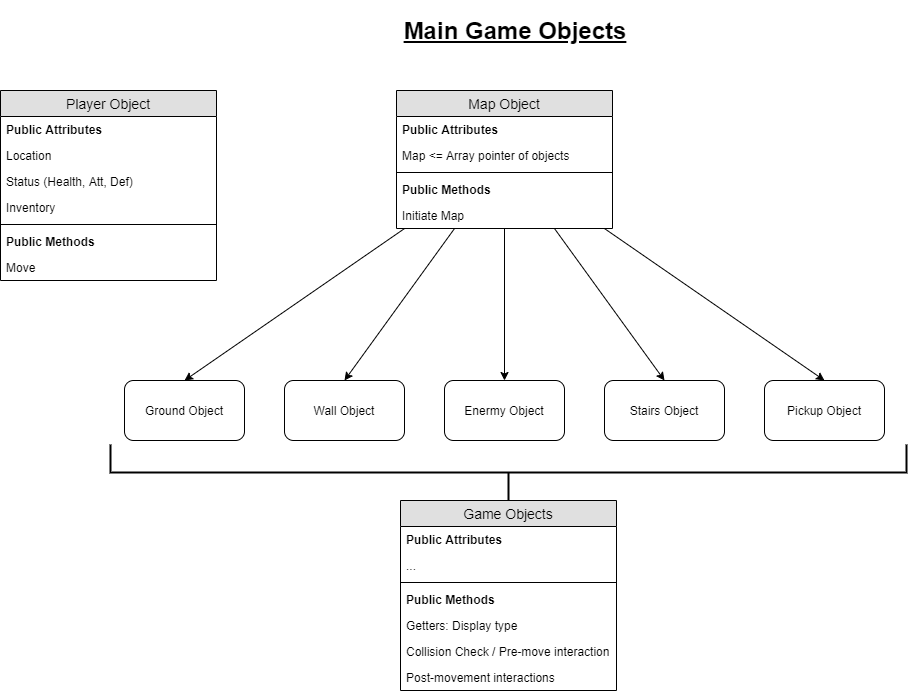
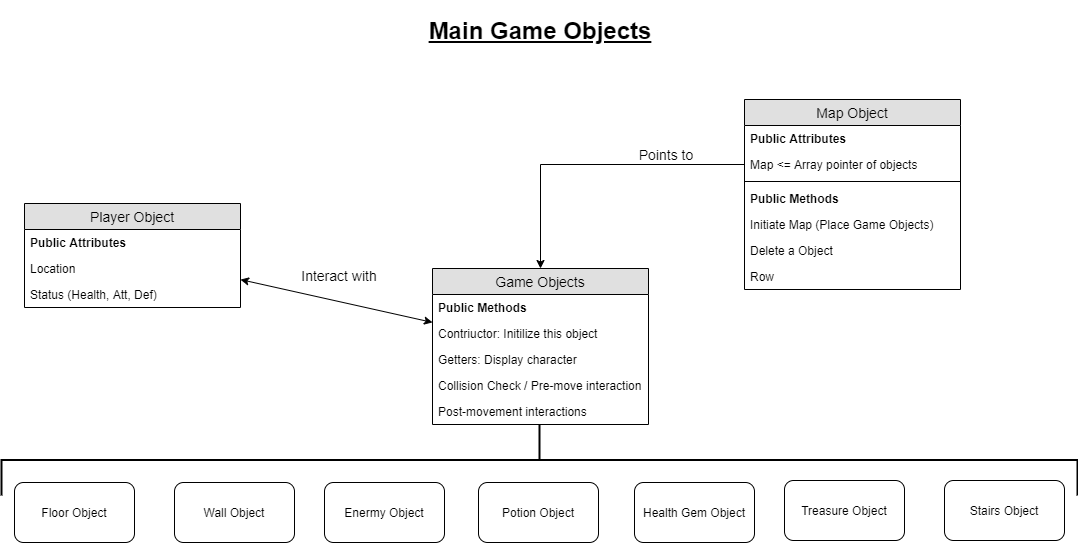
readme

diff --git a/README.md b/README.md
@@ -65,7 +65,7 @@ The following table show the mapping between our features and coding requirement
 |---------------------|:-----------:|---------------|----------------|
 | Level generation    |      1      | Enemies, power-ups and other objects will be place randomly when generating a new level. | Map.cpp function "findRandom" (line 145-155) generate the random location to place new objects. |
 | Combat damage       |      1      | Combat damage taken by the plater when encountering enemies will be randomized. | Game_object.cpp ObjectEnemy member function "Dice" (line 64-71) generate random damage for combat. |
-| Game objects        |     2, 3    | Enemies, power-ups, .etc will be stored as instance objects of the corresponding class, create or removed when necessary. <br> (See detail below) | GameObject.cpp and Map.cpp | 
+| Game objects        |     2, 3    | Enemies, power-ups, .etc will be stored as instance objects of the corresponding class, create or removed when necessary. <br> (See "Game Map" below) | GameObject.cpp and Map.cpp | 
 | High Score          |      4      | High scores after completing a game will be saved inside a text file. The program can read from the file for high scores in previous attempts. | menu.cpp function "print_high_score" (line 129-161) and main_game.cpp function "Gameover" (line 313-361) |
 | Modular programming |      5      | Modules are kepped in a mulitple files. <br> (See dependant graph below) | / |
 
@@ -78,16 +78,22 @@ This chart shows the global structure of our program. It include a main game loo
 ![global structure chart](/charts/Global_Structure.png)
 
 
-
-
-### Game flowchart and objects
-
-
-
+### Game flowchart
 This chart show the flowchart for the main game loop. It summarize the logic of program when main game is running.
 
 ![global structure chart](/charts/main_game_flowchart.png)
 
+
+### Game map
+The game map is created using a Map object. The Map object include a 2-D pointer array which points to the corresponding "game object" in each coordiante space. For example, if (1,1) should have a enemy, the [1][1] element of the array will point to a dynamically create object belonging to the class Enemy. The map object also include methods to populate the map with "game objects" during initizliation and methods to delete a specific object after the it is removed from play (e.g. enemy is killed, potion is used, etc.).
+
+"Game object" is a family of classes. The base the class is GameObjectBase. This class provide the general method and attributes which all "Game object" use to interact with the game. It provide a constructor and 3 methods: a getter method to the display character (i.e. how to display this object), a collision check method (i.e. what to do when the player want to move into this object, can the player move?), and a post movement interaction method (i.e. what happen after the player successfully move on top of this object).
+
+All of the "Game object" are inherited from GameObjectBase class. This include enemies, potions, treasures etc. Each child class will have addtional private methods and attributes to facilitate programming the collision check method and the post movement interaction.
+
+Moreover, note that some objects which is static in nature (e.g. empty floor) are only created once. The the map pointers in various coordinate only points to the same object to save memory space.
+
+The purpose of such programming architecture is that it can provide a uniform interface between the player object and all type of "Game object" (include new ones to be added in the future).
 
 This chart show the objects used to fill up the Map.
 
